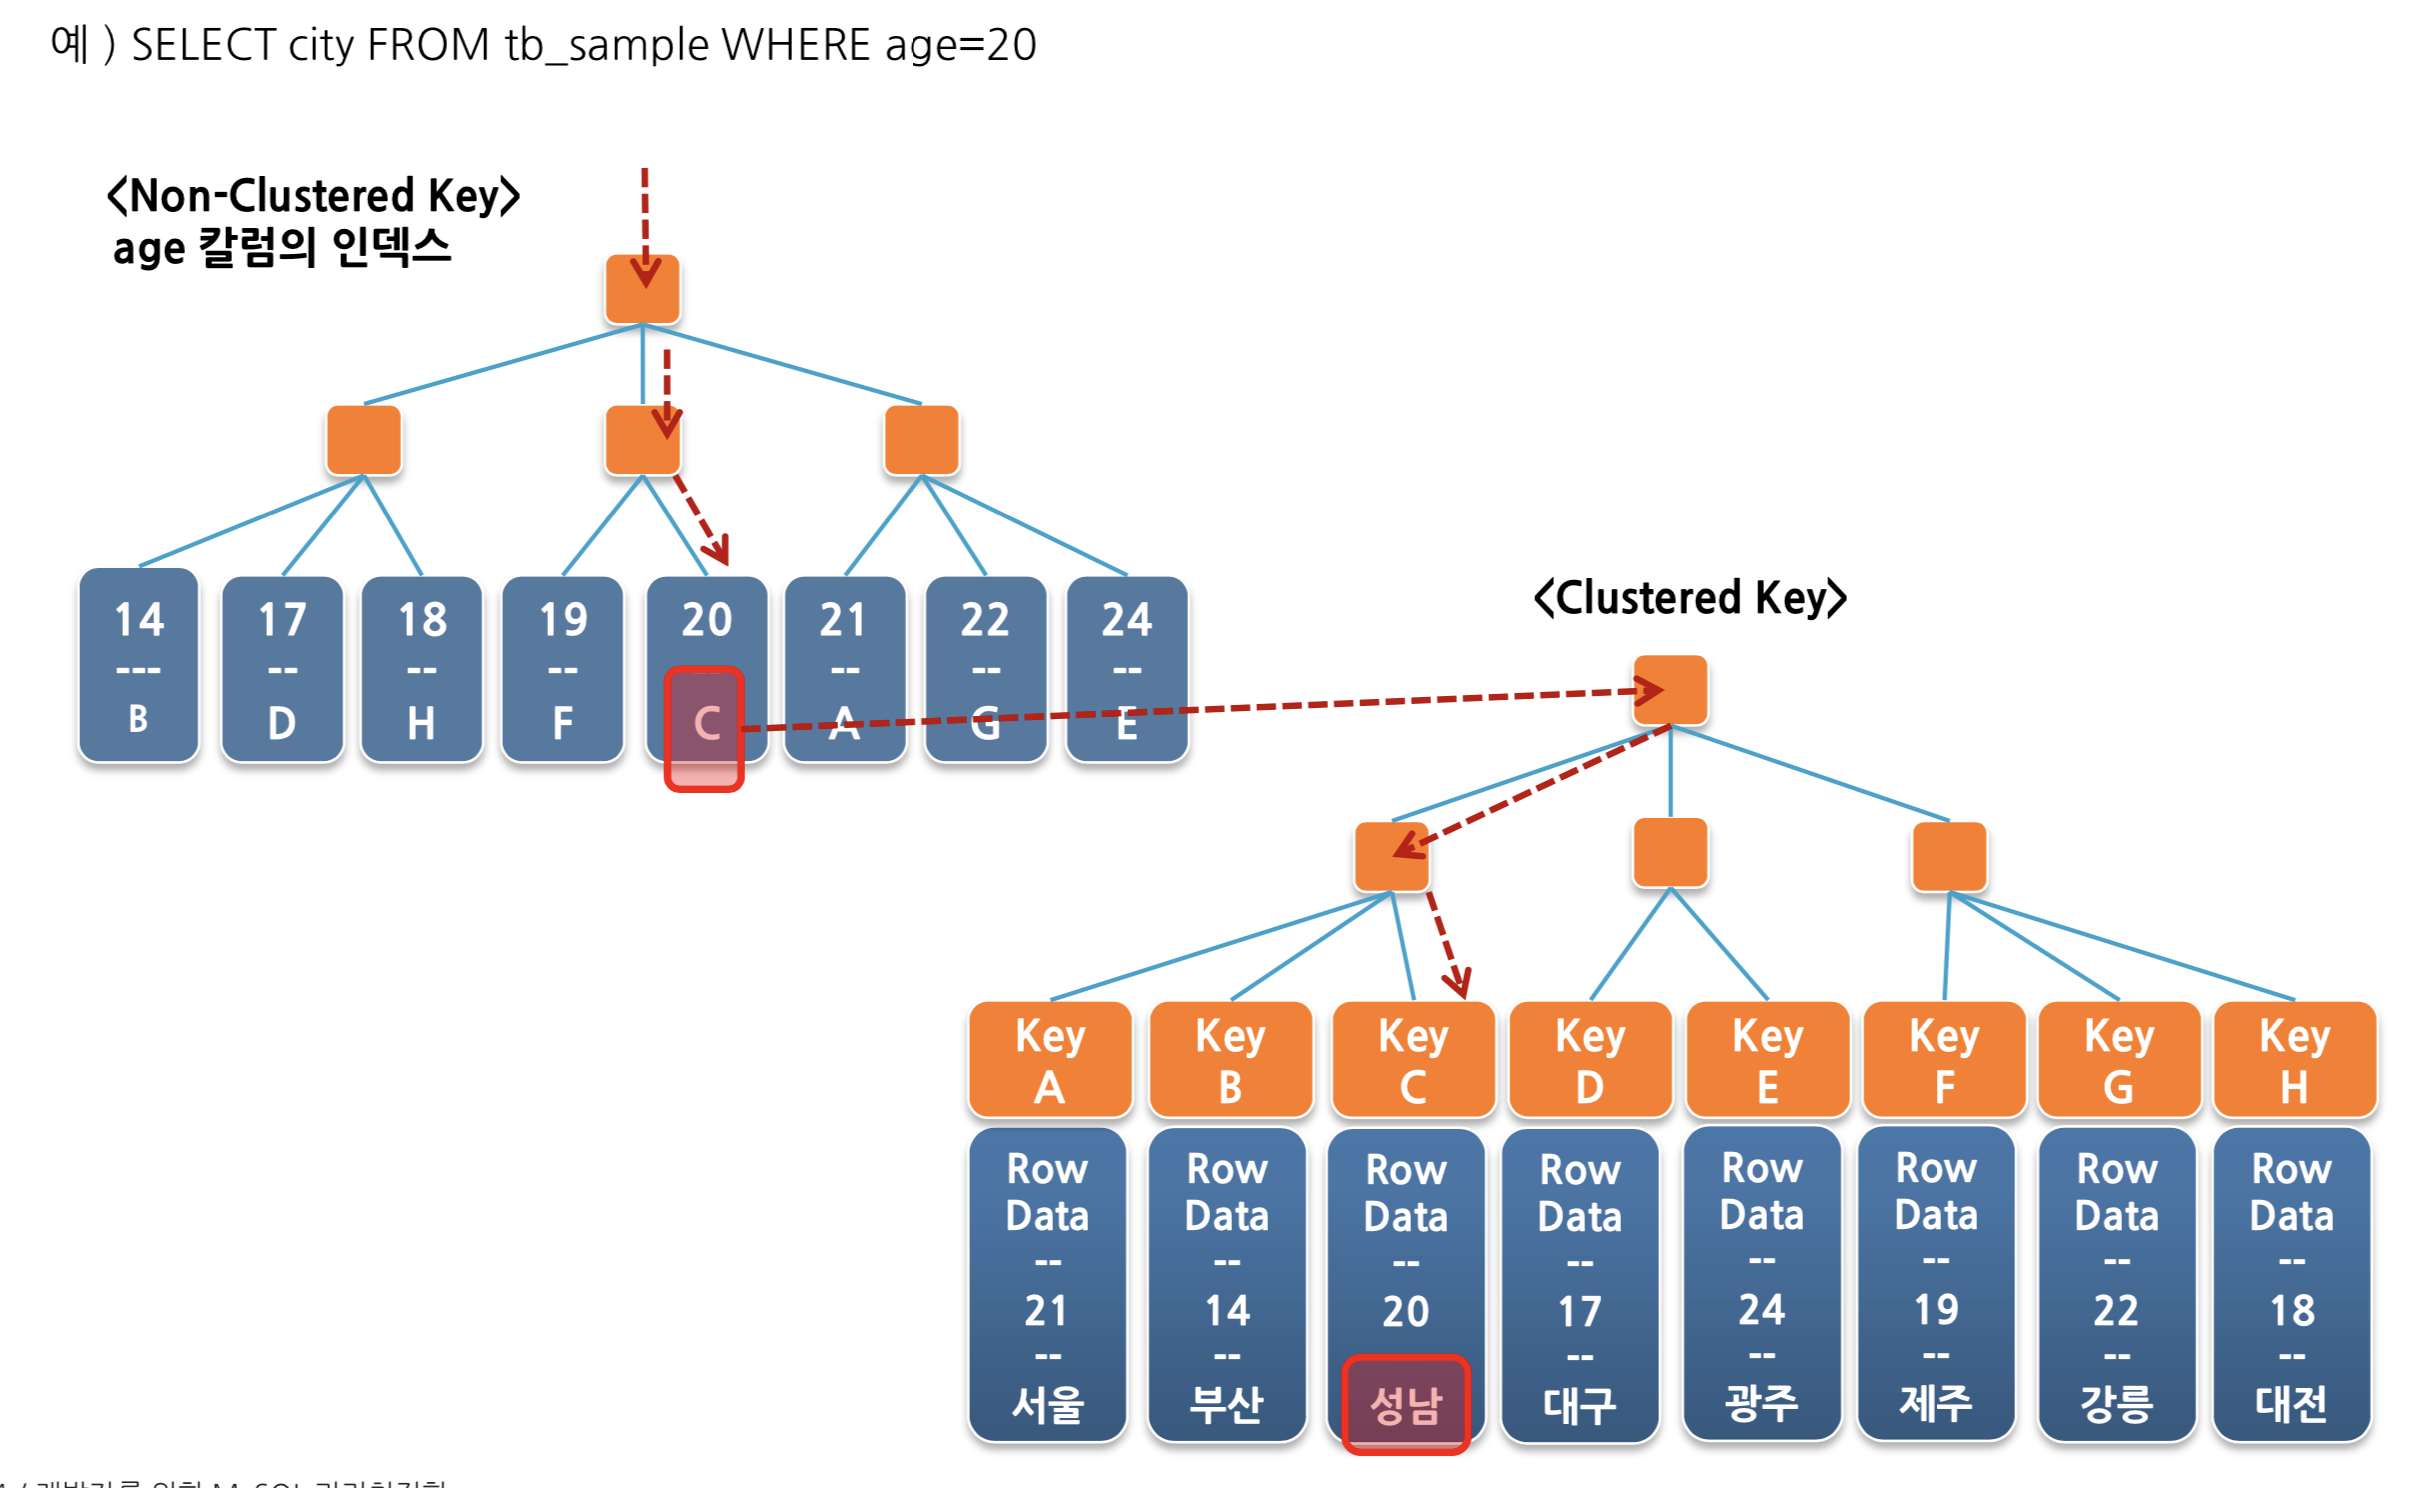
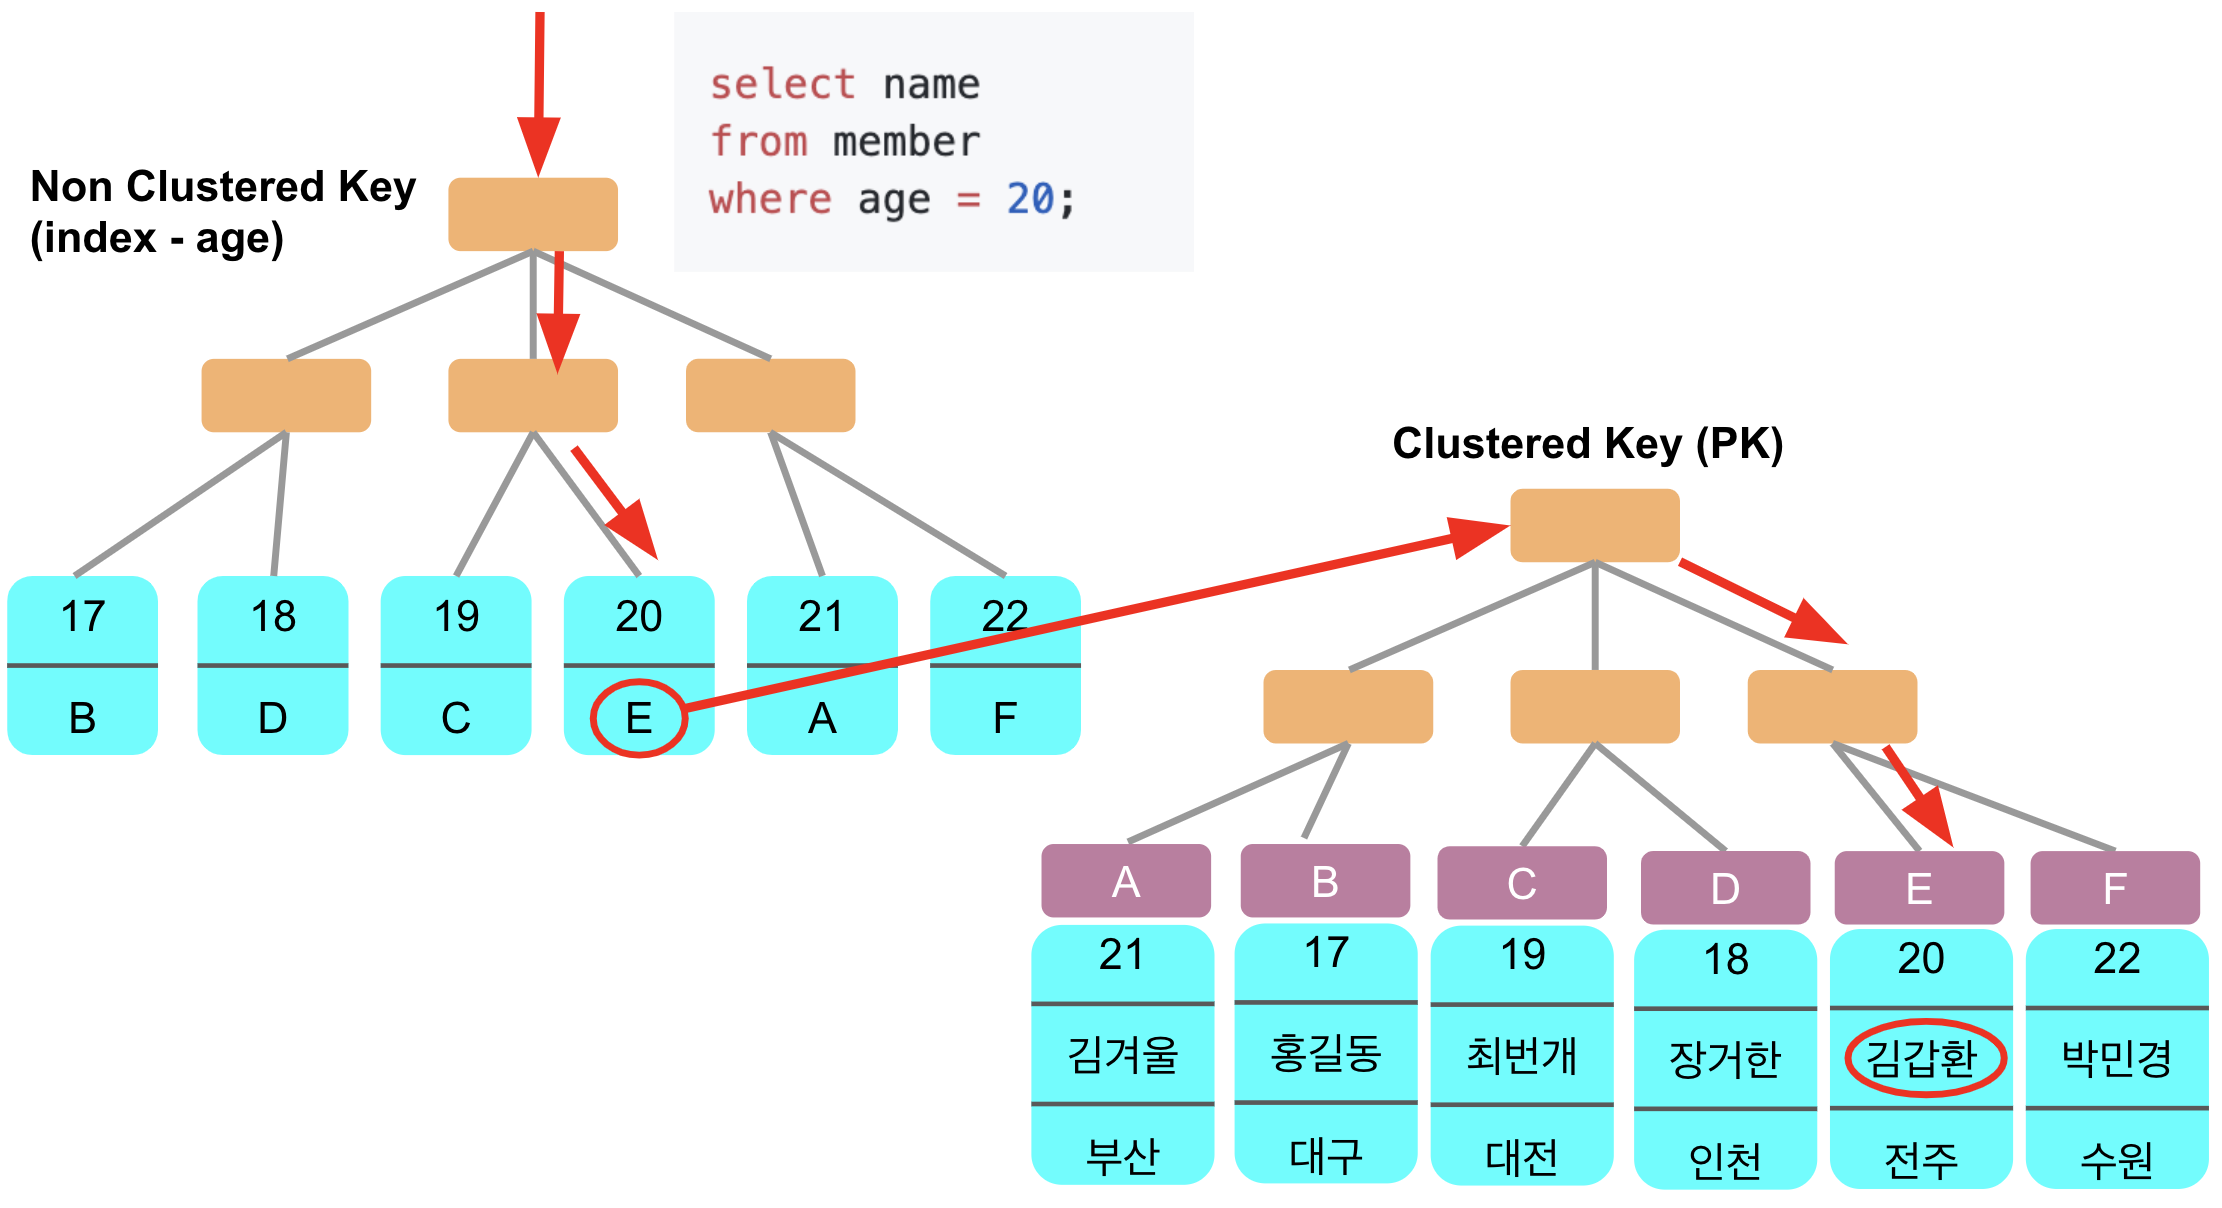
이미지 수정

diff --git a/database/covering-index/README.md b/database/covering-index/README.md
@@ -5,13 +5,17 @@
 * SELECT 구문의 요청 칼럼과 WHERE 필터 등이 특정 인덱스의 구성 칼럼인 경우
 * 데이터에 대한 접근 없이 인덱스 만으로 쿼리의 결과 생성 가능
 * EXPLAIN 결과의 Extra 필드에 “Using index” 표시
-* Clustered Key (PK) 의 값은 모든 Non-Clustered Key에 포함되어 있음
+* Clustered Key (PK) 의 값은 **모든 Non-Clustered Key에 포함**되어 있음
   * Clustered Key는 테이블당 1개만 존재한다.
   * PK가 없을 경우 유니크 키가 Clustered Key로
   * PK와 유니크키 둘다 없을 경우 6 byte의 Hidden Key를 생성 (rowid)
+  * Non-Clustered Key에는 **데이터 블록의 위치가 없다**.
+    * 즉, 인덱스외 다른 필드를 찾을때는 Non-Clustered Key에 있는 Clustered Key 값으로 데이터블록을 찾는 과정이 필요하다.
 
 ![clusterindex](./images/clusterindex.png)
 
+(index-age는 age순으로 정렬되어있고, pk는 id순으로 정렬되어있다.)  
+  
 * 즉, **인덱스 키 조합에는 Clustered Key가 항상 포함**되어 있다.
 * 다만 PK를 사용할 경우 인덱스 탐색 시간이 없어지기 때문에 향상된 데이터 파일 접근이 가능하다
 
